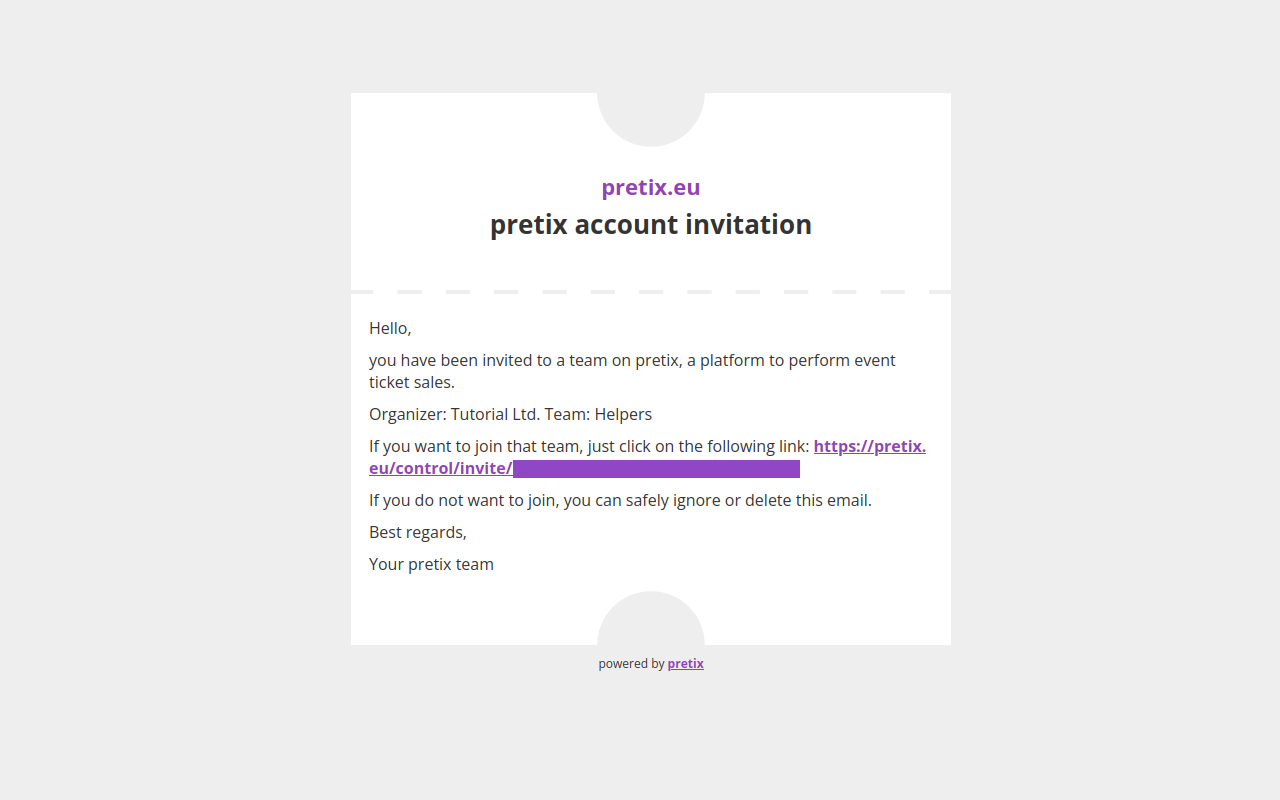
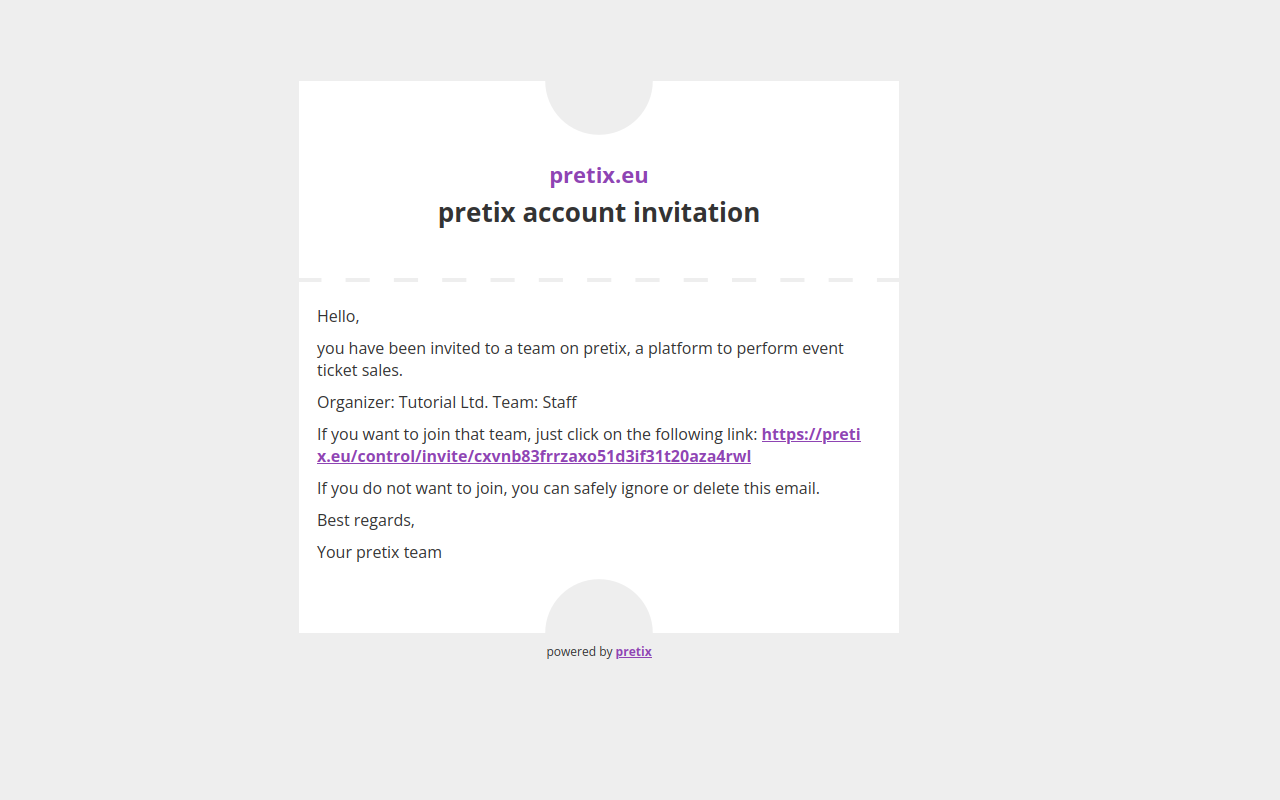
teams.md: replace "helpers" with staff, small improvements, implement comments up to https://github.com/pretix/pretix-docs/pull/36#discussion_r1818933496

Changed region(s): [[0.25, 0.375, 0.7188, 0.7188], [0.3438, 0.1875, 0.625, 0.3125], [0.4375, 0.8125, 0.5625, 0.8438]]

diff --git a/docs/topics/teams.md b/docs/topics/teams.md
@@ -9,7 +9,7 @@ This article is going to tell you how to use the "Teams" settings page, create t
 Creating teams and managing permissions for them requires administrator access to an organizer account. 
 If you do not have access to an organizer account at all, then you are probably looking for the subsection on how to [accept an invitation to a team](teams.md#accepting-an-invitation-to-a-team). 
 
-## General usage
+## How to
 
 ![Page titled 'Teams', listing a team called 'Administrators' and showing buttons for creating, editing and viewing teams.](../assets/screens/teams/teams.png "Teams screenshot") 
 
@@ -36,12 +36,12 @@ Clicking the :btn:Save: button creates the team and takes you to an overview of 
 
 ### Inviting someone to your team
 
-![Page titled 'Team: Helpers', listing three members, one of them has a mail icon next to their email address.](../assets/screens/teams/team-invite.png "Team: Helpers screenshot") 
+![Page titled 'Team: Staff', listing three members, one of them has a mail icon next to their email address.](../assets/screens/teams/team-invite.png "Team: Staff screenshot") 
 
 Navigate to :navpath:Your organizer → :fa3-users: Teams: and select the team for which you want to send out an invitation. 
 You can invite someone to your team by entering their email address into the field at the bottom of the list of team members and clicking the :btn-icon:fa3-plus: Add: button. 
 If the person you added already has a pretix account using that same email address, they will be granted access to this organizer account instantly. 
-They will not be notified by the system, so you should let them know them that they have been granted access. 
+They will not be notified by the system, so you should let them know that they have been granted access. 
 The person will appear in the list with either a gray or a green :fa3-shield: symbol next to them, indicating whether or not they have enabled two-factor authentication. 
 
 If the person you added does not yet have a pretix account, they will receive an email invitation to create one. 
@@ -53,11 +53,11 @@ They will appear in the list with a :fa3-envelope-o: symbol for their status as 
 
 ### Accepting an invitation to a team
 
-![Email titled 'pretix account invitation', specifying the organizer Tutorial Ltd. and the team Helpers, displaying a link for joining that team.](../assets/screens/teams/account-invitation.png "pretix account invitation screenshot") 
+![Email titled 'pretix account invitation', specifying the organizer Tutorial Ltd. and the team Staff, displaying a link for joining that team.](../assets/screens/teams/account-invitation.png "pretix account invitation screenshot") 
 
 If you have been invited to a team and you do not have a personal pretix account yet, you will receive an email that looks similar to the one in the screenshot above. 
 Clicking the link in that email takes you to a dialog where you can create an account by entering a password and clicking the :btn:Register: button. 
-Once you have done that, you will land on the dashboard displaying a notification saying "Welcome to pretix! You are now part of the team 'Staff'." 
+Once you have done so, you will land on the dashboard displaying a notification saying "Welcome to pretix! You are now part of the team 'Staff'." 
 You will now have access to the organizer account and associated events as specified by the person inviting you. 
 
 ![Page titled 'Accept an invitation' with inputs for email address and password as well as buttons for logging in or registering.](../assets/screens/teams/accept-invitation.png "pretix accept an invitation screenshot") 
